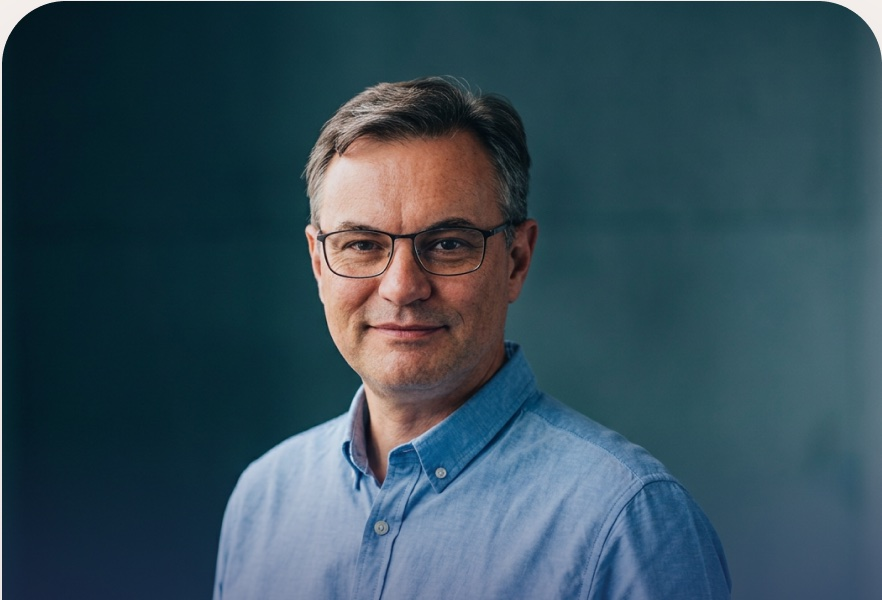
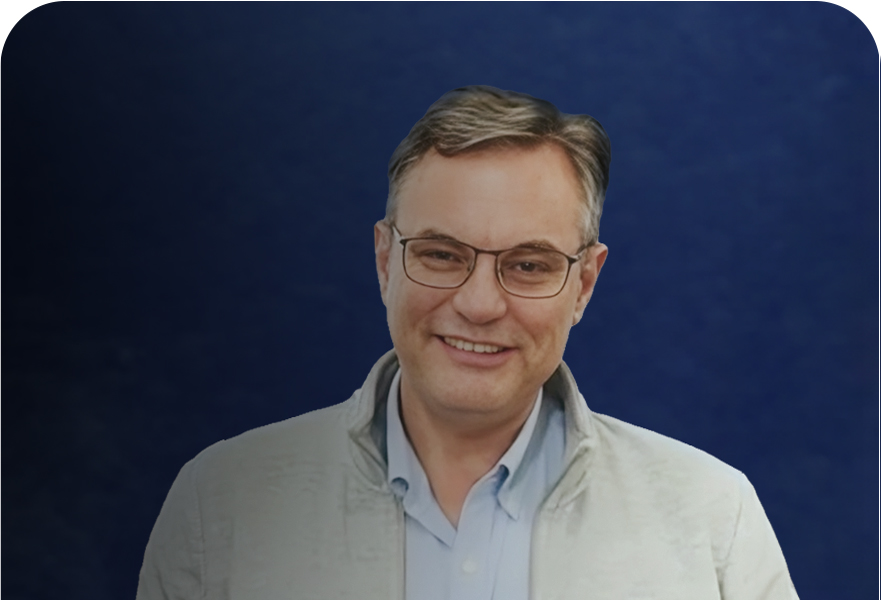
Publish completed FTP batch
Galatea-Batch: website-20261008-full-recovery
Galatea-Snapshot: 4ef2370710cf42774a59dc7d58d896b56ee9ea00bb21a1d263c72f58300f6842

diff --git a/index.html b/index.html
@@ -4,7 +4,7 @@
 <meta charset="utf-8">
 <meta name="viewport" content="width=device-width, initial-scale=1">
 <title>Galatea AI Beratung</title>
-<meta name="description" content="Beratung für Unternehmen, Hochschulen und Forschungseinrichtungen bei KI und Robotik – Süddeutschland, Schweiz, Shanghai.">
+<meta name="description" content="Beratung für Unternehmen, Hochschulen und Forschungseinrichtungen bei KI und Robotik – Deutschland, Schweiz, Shanghai.">
 <script>document.documentElement.classList.add("js")</script>
 <link rel="stylesheet" href="consent.css">
 <!-- Schriften (Google Fonts) werden erst nach Einwilligung per consent.js geladen -->
@@ -173,8 +173,9 @@ footer a.mail{color:var(--peach-300);text-decoration:none}
   .kontakt .cta{text-align:left}
 }
 @media(max-width:480px){
+  .logo{flex:none}
+  .logo img{height:auto;width:160px}
   .nav .btn{padding:9px 14px}
-  .logo img{height:54px}
   .btn-row{gap:var(--s-4)}
   .btn-burgundy{word-break:break-all}
 }
@@ -192,10 +193,9 @@ footer a.mail{color:var(--peach-300);text-decoration:none}
         <li><a href="#profil">Profil</a></li>
         <li><a href="#spezialisierung">Spezialisierung</a></li>
         <li><a href="#team">Team</a></li>
-        <li><a href="#kontakt">Kontakt</a></li>
       </ul>
     </nav>
-    <a class="btn btn-peach" href="#kontakt">Kontakt aufnehmen <span class="arr">↗</span></a>
+    <a class="btn btn-peach" href="mailto:info@galatea-ai.de">Kontakt <span class="arr">↗</span></a>
   </div>
 </header>
 
@@ -204,7 +204,7 @@ footer a.mail{color:var(--peach-300);text-decoration:none}
 <section class="hero">
   <div class="wrap">
     <div>
-      <span class="eyebrow light">Süddeutschland · Schweiz · Shanghai</span>
+      <span class="eyebrow light">Deutschland · Schweiz · Shanghai</span>
       <h1 class="h-display h-hero">Digital durchdacht. Menschlich gemacht.</h1>
       <p class="sub">Beratung für Unternehmen, Hochschulen und Forschungseinrichtungen bei KI und Robotik</p>
       <div class="btn-row">
@@ -313,7 +313,7 @@ footer a.mail{color:var(--peach-300);text-decoration:none}
         <a class="btn btn-burgundy" href="mailto:info@galatea-ai.de">info@galatea-ai.de <span class="arr">↗</span></a>
       </div>
     </div>
-    <div class="tags"><span class="tag">süddeutschland</span><span class="tag">schweiz</span><span class="tag">shanghai</span></div>
+    <div class="tags"><span class="tag">deutschland</span><span class="tag">schweiz</span><span class="tag">shanghai</span></div>
   </div>
 </section>
 

diff --git a/consent.css b/consent.css
@@ -3,7 +3,8 @@
 .cc[hidden],.cc-modal[hidden]{display:none}
 
 /* Leiste unten, volle Breite */
-.cc{position:fixed;left:0;right:0;bottom:0;z-index:100;background:var(--white);box-shadow:0 -12px 32px rgba(43,47,107,.12);padding:var(--s-5) var(--s-6)}
+.cc{position:fixed;left:0;right:0;bottom:0;z-index:100;background:var(--white);box-shadow:0 -12px 32px rgba(43,47,107,.12);padding:var(--s-5) var(--s-6);transition:opacity .4s ease,visibility 0s linear 0s}
+.cc.cc-away{opacity:0;visibility:hidden;pointer-events:none;transition:opacity .4s ease,visibility 0s linear .4s}
 .cc-inner{max-width:1080px;margin:0 auto;display:flex;align-items:center;justify-content:space-between;gap:var(--s-6)}
 .cc-text{flex:1;min-width:0}
 .cc-title{font-family:var(--font-display);font-style:italic;font-weight:400;font-size:24px;line-height:1.1;color:var(--navy-700);margin-bottom:var(--s-2)}
@@ -46,4 +47,4 @@
   .cc-dialog .cc-actions{grid-template-columns:1fr}
   .cc-dialog .cc-actions .cc-btn-primary{order:0}
 }
-@media(prefers-reduced-motion:reduce){.cc-btn,.cc-switch i,.cc-switch i::after{transition:none}}
+@media(prefers-reduced-motion:reduce){.cc,.cc-btn,.cc-switch i,.cc-switch i::after{transition:none}}

diff --git a/consent.js b/consent.js
@@ -69,6 +69,17 @@
     }
     if (b) b.focus({ preventScroll: true });
   }
+  // Leiste beim Scrollen ausblenden (nur ohne gespeicherte Entscheidung); ganz oben wieder einblenden
+  var away = false, ticking = false;
+  function syncAway() {
+    ticking = false;
+    var want = window.scrollY > 20;
+    if (want === away) return;
+    away = want;
+    banner.classList.toggle("cc-away", away);
+  }
+  function onScroll() { if (!ticking) { ticking = true; requestAnimationFrame(syncAway); } }
+
   function decide(fonts) {
     write(fonts); apply(fonts); banner.hidden = true; modal.hidden = true;
   }
@@ -93,7 +104,9 @@
     document.addEventListener('keydown', function (e) {
       if (e.key === "Escape" && !modal.hidden) { if (read()) modal.hidden = true; else show("main"); }
     });
+    window.addEventListener("scroll", onScroll, { passive: true });
     var c = read();
     if (c) apply(c.fonts); else show('main');
+    syncAway();
   });
 })();

diff --git a/design-system.html b/design-system.html
@@ -200,7 +200,7 @@ section.ds{padding:var(--s-8) 0;border-bottom:1px solid var(--border)}
   <h2 class="ds-title" style="margin-top:var(--s-3)">Hero-Sektion</h2>
   <div class="hero">
     <div>
-      <span class="eyebrow light">Süddeutschland · Schweiz · Shanghai</span>
+      <span class="eyebrow light">Deutschland · Schweiz · Shanghai</span>
       <h3 class="h-display h-hero" style="margin-top:var(--s-4)">Digital durchdacht. Menschlich gemacht.</h3>
       <p style="margin-top:var(--s-4);font-size:14px;color:rgba(255,255,255,.85);max-width:380px">Beratung für Unternehmen, Hochschulen und Forschungseinrichtungen bei KI und Robotik</p>
       <div class="btn-row"><a class="btn btn-peach">Mehr erfahren <span class="arr">↗</span></a><small>Strategie, Technologie und Umsetzung in einem Beratungsansatz.</small></div>
